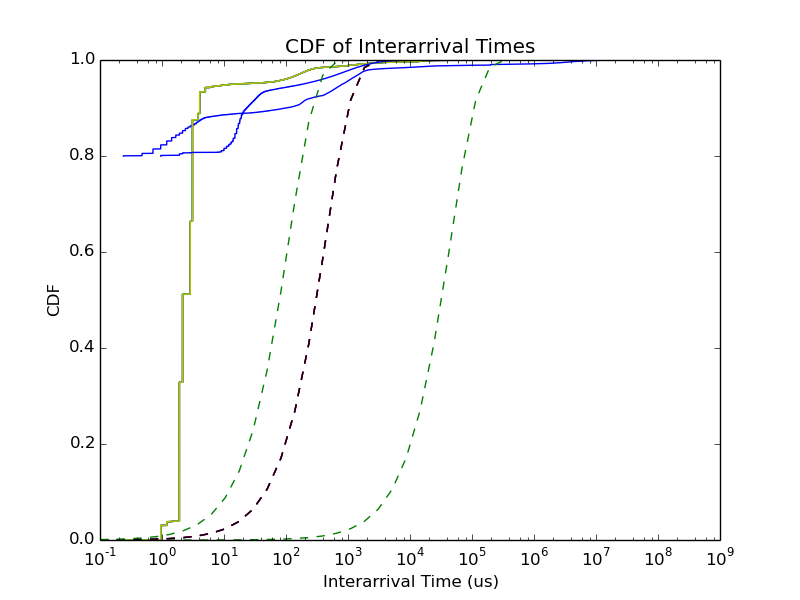
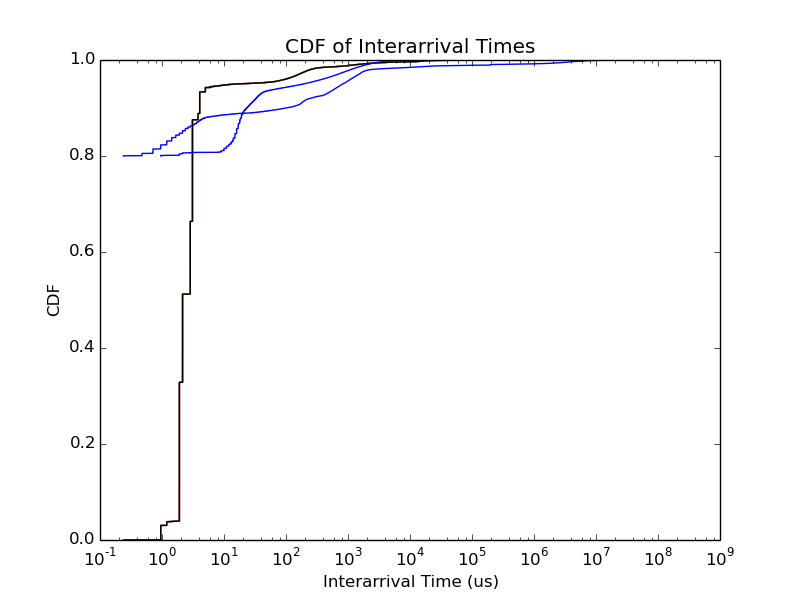
new graphs

diff --git a/makeFlowTrace.py b/makeFlowTrace.py
@@ -201,6 +201,7 @@ def makeFlows(nodes, data, opts):
     def processNode(n, nodes):
         assert('nicmap' not in nodes.keys())
         nodes[n]['lock'].acquire()
+        flowsByNode[n] = {}
         flowsByNode[n]['mem'] = []
         flowsByNode[n]['disk'] = []
 
@@ -244,7 +245,7 @@ def makeFlows(nodes, data, opts):
 
         def processDiskFlows():
             disks = nodes[n]['disk']
-            nicFlows = [{'start_time': f['start_time'], 'end_time': f['end_time'], 'size': f['size'], 'src': nicmap[f['src']], 'dst': nicmap[f['dst']]} for f in nodes[n]['nic'] if nicmap[f['src']] != -1 and nicmap[f['dst']] != -1]
+            nicFlows = [{'start_time': f['start_time'], 'end_time': f['end_time'], 'size': f['size'], 'src': nicmap[f['src']], 'dst': nicmap[f['dst']]} for f in nodes[n]['nic'] if (f['src'] in nicmap and f['dst'] in nicmap) and (nicmap[f['src']] != -1 and nicmap[f['dst']] != -1)]
             nicFlows = filter(lambda f: f['dst'] == n, nicFlows)
             if (len(nicFlows) == 0):
                 pdb.set_trace()
@@ -429,7 +430,7 @@ def plotAddressAccessOverTime(flows, prefix=None):
 
 
 def writeFlows(flows, outDir, arrangement, opt):
-    print 'writing:', "{0}{1}_{2}_flows.txt".format(outDir, arrangement, opt), ': ', len(flows), ' flows'
+    print 'writing:', "{0}{1}_{2}_flows.txt".format(outDir, arrangement, opt)
     fid = 0
     with open("{0}{1}_{2}_flows.txt".format(outDir, arrangement, opt), 'w') as of:
         for f in flows:

diff --git a/readFlowTrace.py b/readFlowTrace.py
@@ -117,9 +117,9 @@ def sourceInterarrival(flows, prefix=None):
         inters = list(interarrivals(f['time'] * 1e6 for f in flows if f['src'] == s))
         x, y = cdf(inters)
         plt.semilogx(x, y, label=str(s))
-        cmp_x = np.logspace(-1, 10)
-        plt.semilogx(cmp_x, scipy.stats.expon.cdf(cmp_x, scale=np.mean(x)), '--', label='Fitted Exponential')
-        print 'K-S Test', scipy.stats.kstest(x, lambda x: scipy.stats.expon.cdf(x, scale=np.mean(x)))
+        # cmp_x = np.logspace(-1, 10)
+        # plt.semilogx(cmp_x, scipy.stats.expon.cdf(cmp_x, scale=np.mean(x)), '--', label='Fitted Exponential')
+        # print 'K-S Test', scipy.stats.kstest(x, lambda x: scipy.stats.expon.cdf(x, scale=np.mean(x)))
     plt.savefig(prefixName(prefix, 'comparefit_cdf_src_interarrivals.png'))
 
     plt.clf()
